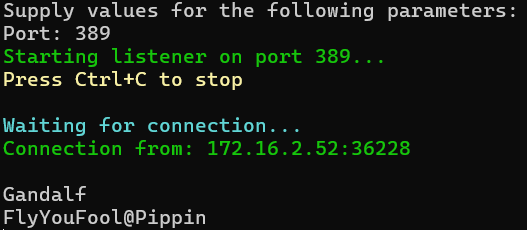
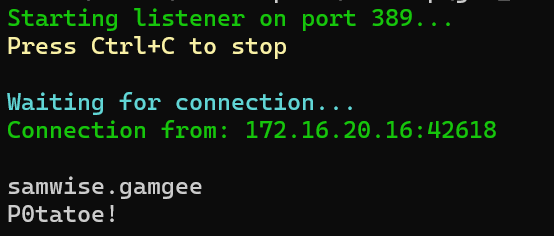
Fixed issue with not being able to run CTRL+C to close app. Updated screenshot.

Changed region(s): [[0.0, 0.0, 0.9715, 0.7], [0.0, 0.7304, 0.3947, 1.0]]

diff --git a/README.md b/README.md
@@ -1,4 +1,4 @@
 # PowerShell_Passback
 PowerShell program to receive authentication when performing a Passback Attack. Why would you use this? Imagine your in a segmented network and cannot get traffic back to yourself, you can only send traffic in. Perfect. Run this suttle program on a host you control and perform a Passback attack using it.
 
-![alt text](powershell_script.png)
+![alt text](image.png)
